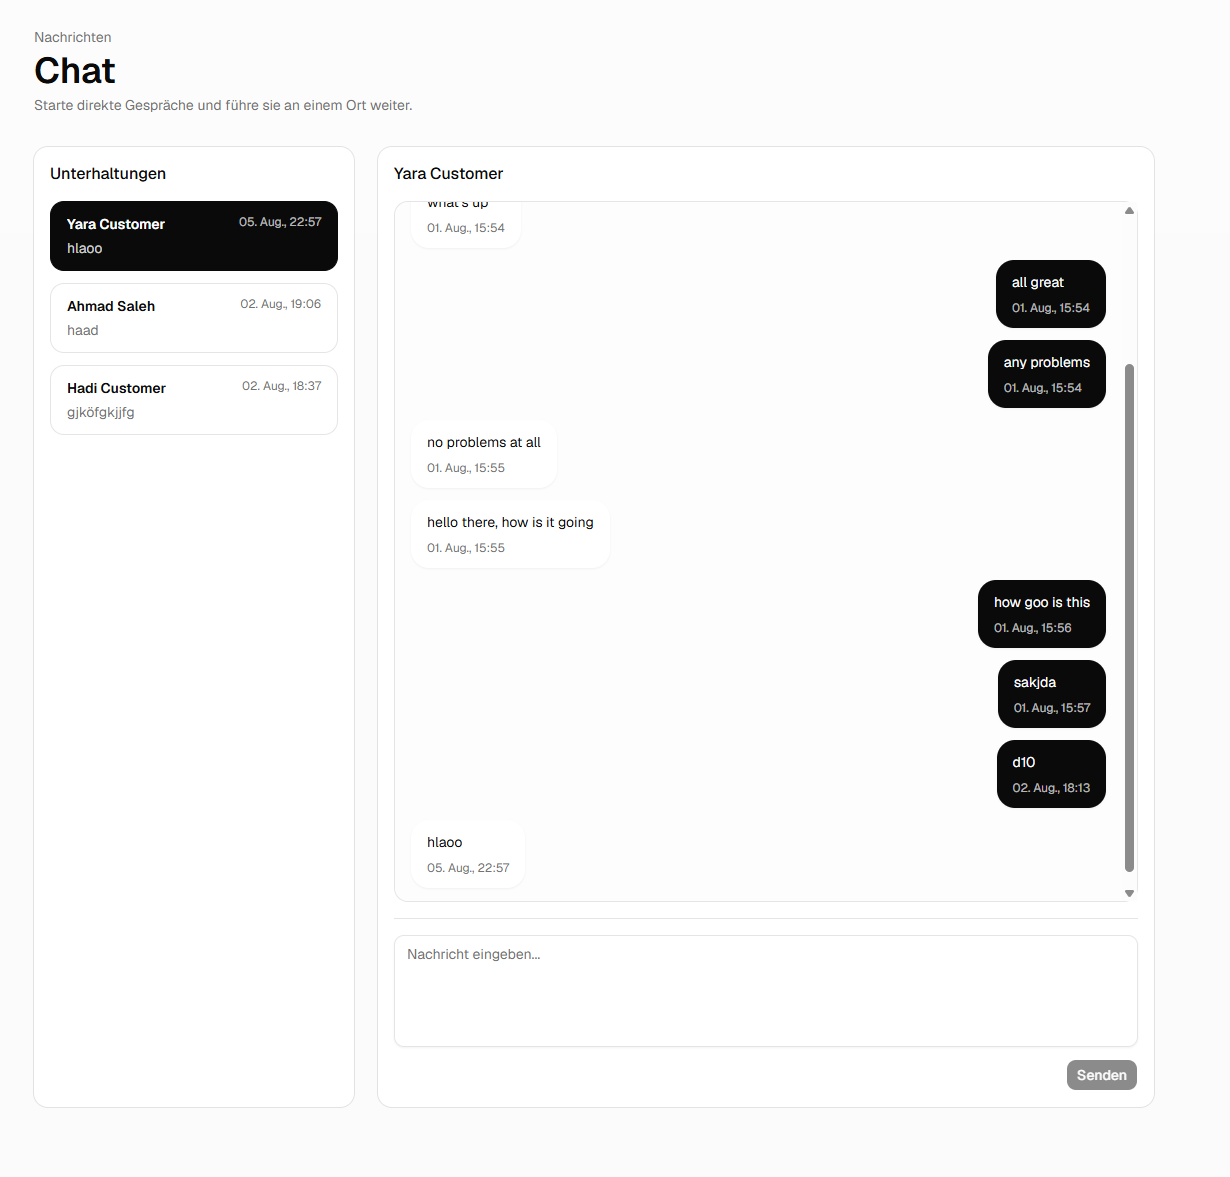
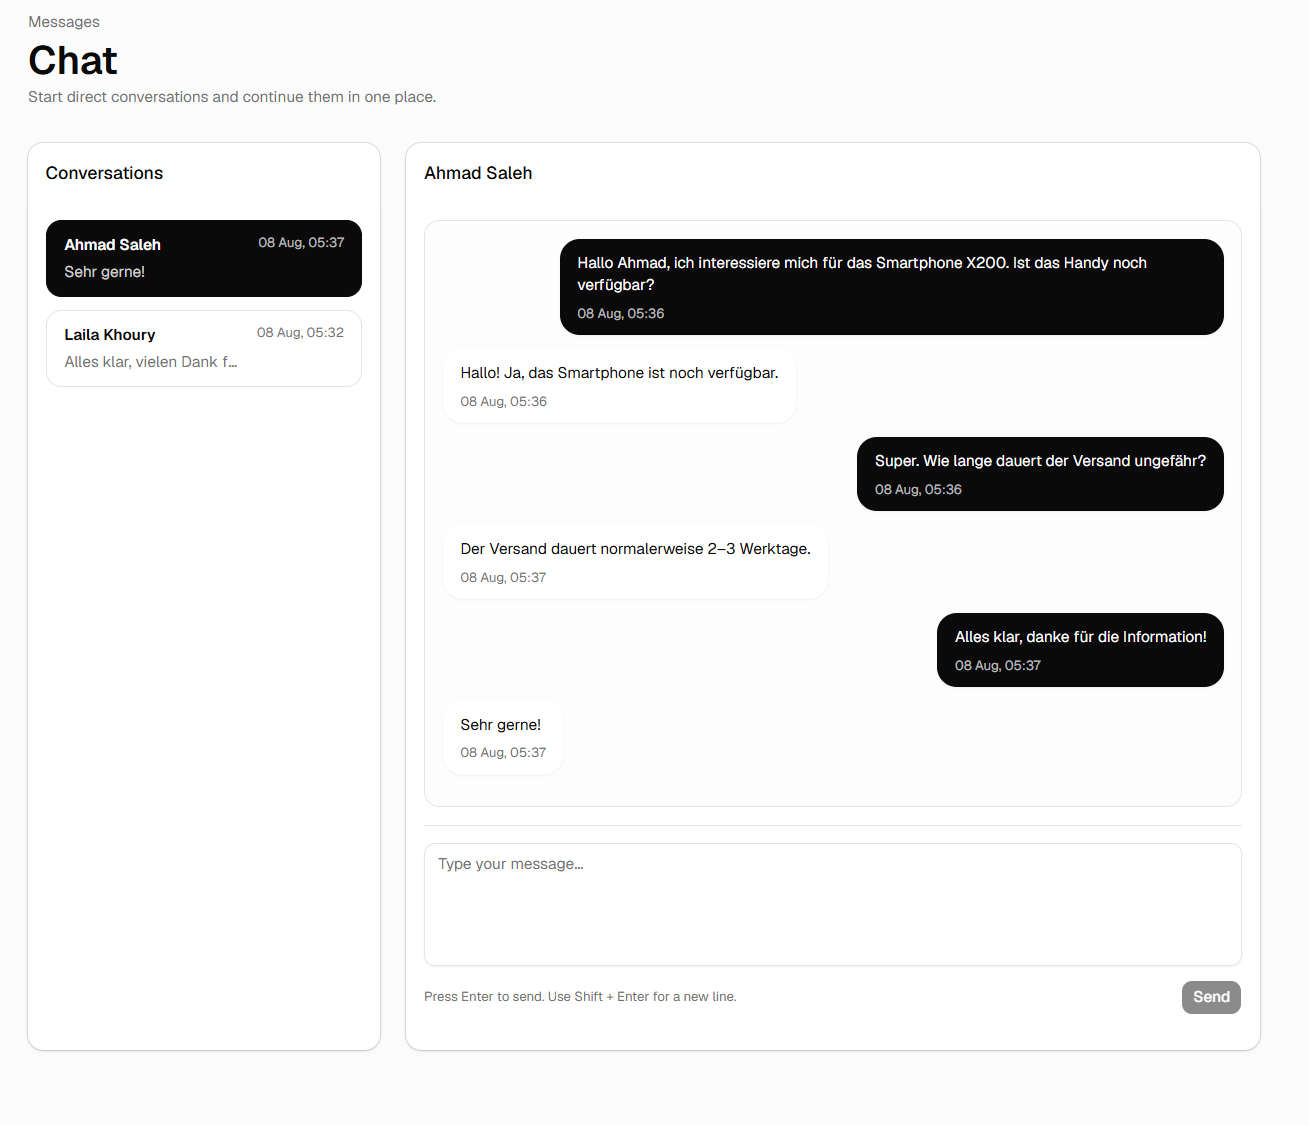
gepusht

diff --git a/main.tex b/main.tex
@@ -3,7 +3,7 @@
 % Design and Development of a Multi-Role E-Commerce and Services Marketplace
 %=======================================================================
 \documentclass[
-        11pt,
+        10pt,
         a4paper, 
         oneside,
         toc=listofnumbered,
